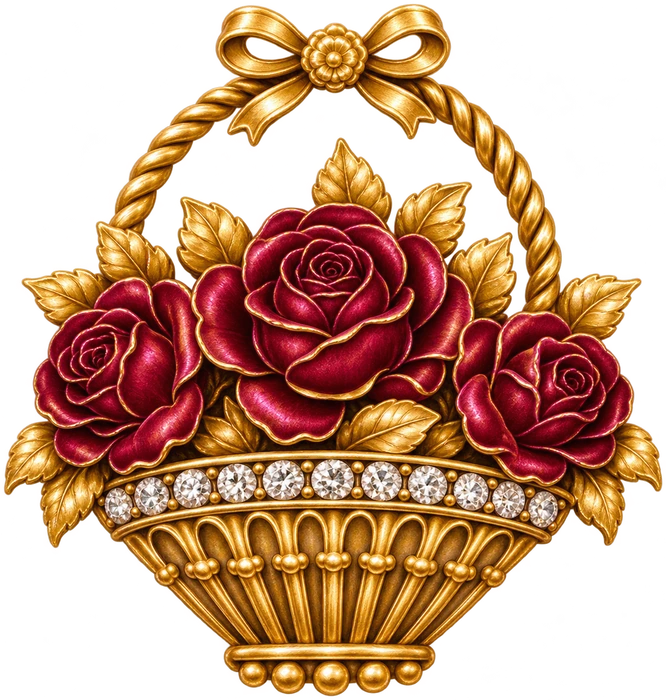
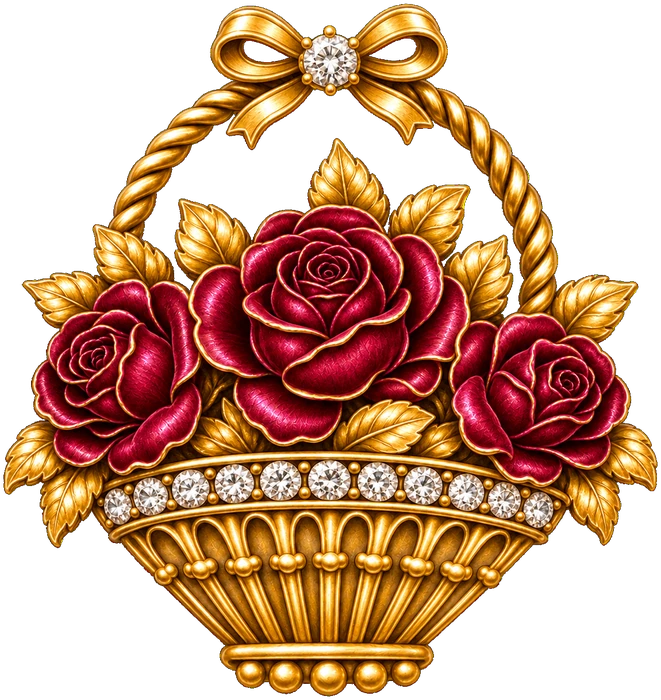
Neues Rosenkörbchen mit Diamant in der Schleife (2.20.4)

diff --git a/index.html b/index.html
@@ -2791,7 +2791,7 @@ html.theme-biz.theme-cca.theme-cca-light :is(.tb-tools-fab, .tb-del-fab) img, ht
 
 <script>
 /* Bump on every published update, so it's visible at a glance whether the newest version is loaded. */
-const APP_VERSION = '2.20.3';
+const APP_VERSION = '2.20.4';
 /* Design (since 1.80.0, see the small script in <head>): in "Business" (BIZ) the gold paper icons are swapped for plain line
    icons (img/icons-rl/*.svg) wherever they appear – also in everything drawn later – so the rest of the code stays as it is. */
 // A Lady's Conservatory (1.84.0, named so since 1.86.1; key 'retreat' and RETREAT stay): light, cream and forest green; until its own pictures come it uses those of A Gentleman's Study (with the
@@ -9046,7 +9046,7 @@ const RL_EGGS = [['egg-cream', 0.57, 0.75], ['egg-cobalt', 0.58, 0.9], ['egg-gre
 // boot, star, crib, Easter eggs) keeps the picture of A Gentleman's Study as placeholder
 const RT_TRO = {
   // new colours (preview 21.10.2026, img/rt2/): brooches and rose quartz in the colours of the colour card
-  ex:[['rt2/brooch-q1', 0.543], ['rt2/brooch-q2', 0.731], ['rt2/brooch-q3', 0.951], ['rt2/brooch-q4', 0.923], ['rt2/brooch-q5', 0.936], ['rt2/brooch-q6', 0.687]] /* 17.11.2026: all six new as transparent PNGs from ChatGPT (1–5 real alpha; 6 cut from green) */, // 24.10.2026: new antique brooches (spray, violets, basket, star flower, wreath, Victorian diamond)
+  ex:[['rt2/brooch-q1', 0.543], ['rt2/brooch-q2', 0.731], ['rt2/brooch-q3', 0.944], ['rt2/brooch-q4', 0.923], ['rt2/brooch-q5', 0.936], ['rt2/brooch-q6', 0.687]] /* 17.11.2026: all six new as transparent PNGs from ChatGPT (1, 2, 4, 5 real alpha; 3 cut from black, 6 from green) */, // 24.10.2026: new antique brooches (spray, violets, basket, star flower, wreath, Victorian diamond)
   streak:[['rt2/quartz-1', 0.537], ['rt2/quartz-2', 0.524], ['rt2/quartz-3', 0.505], ['rt2/quartz-4', 0.496], ['rt2/quartz-5', 0.442], ['rt2/quartz-6', 0.464]],
   box:[['rt2/cloche-lotus-1', 0.84], ['rt2/cloche-lotus-2', 0.841], ['rt2/cloche-lotus-3', 0.841]],
   b478:[['rt2/cloche-cherry-1', 0.84], ['rt2/cloche-cherry-2', 0.84], ['rt2/cloche-cherry-3', 0.84]], lemon:[['rt2/cloche-lemon-1', 0.846], ['rt2/cloche-lemon-2', 0.846], ['rt2/cloche-lemon-3', 0.846]], // new colours (21.10.2026)

diff --git a/CLAUDE.md b/CLAUDE.md
@@ -11,7 +11,7 @@ Der Nutzer ist kein Entwickler. Erkläre Schritte einfach und auf Deutsch.
 eWolfe ist **kein Ein-Personen-Projekt**: Die Nutzerin hatte beim Bau große Hilfe (Betreiber: eWolfe GbR). Nie als Werk einer einzelnen
 Person beschreiben (auch nicht im Ältestenrat, in Analysen oder Präsentationen); wer zum Team gehört, nicht raten.
 
-## Übergabe – Stand 16.11.2026 (Version 2.20.2, committet, Push steht aus) – zuerst lesen
+## Übergabe – Stand 17.11.2026 (Version 2.20.4 auf `main`, Push steht aus; Coach-„Gespräch“ auf Branch `coach-gespraech`) – zuerst lesen
 - **Zuletzt (2.20.0):** Lebensfreude als Regler mit der Sonne als Knopf (siehe Versionseintrag).
 - **Davor (2.19.0):** Persönlichkeitstest mit sechs Antworten ohne Mitte; alte Ergebnisse/Entwürfe mit fünf bleiben gültig (`steps`). Handoff-Nachtrag vom 16.11.2026.
 - **Sitzung 14.–16.11.2026 (2.11.1 → 2.18.1), Kurzfassung – Einzelheiten in den Versionseinträgen unten:** Persönlichkeitsrad rund mit Ring;
@@ -212,7 +212,7 @@ Person beschreiben (auch nicht im Ältestenrat, in Analysen oder Präsentationen
 - Veröffentlicht über **GitHub Pages** aus diesem Repository (Branch `main`, Ordner `/`):
   https://k9vk58y99f-max.github.io/k9vk58y99f-max.github.io-ewolfe-app-/
 - Ein Commit + Push auf `main` ist die Veröffentlichung; nach 1–2 Minuten ist es live.
-- Bei jeder Änderung `APP_VERSION` erhöhen (aktuell `2.20.2`) und `APP_BUILD` anpassen.
+- Bei jeder Änderung `APP_VERSION` erhöhen (aktuell `2.20.4`) und `APP_BUILD` anpassen.
   Die Version steht unten in der App.
 
 ## Neu seit 1.55.0 (iPad, Wischen, Tagebuch, Sticker, Impulskarten)
@@ -1264,7 +1264,7 @@ Vor jedem Push: Syntax prüfen und die betroffenen Abläufe testen. Daten des Nu
     **Lady 1,77 m statt 1,72 m:** `--dh` 0,767 statt 0,745 × Regalhöhe. Test `t2202-hunde.py` in `eWolfe-Skripte` (WebKit, drei Designs, Stufe 5/6, Mo/Sa).
 - **2.20.3 (17.11.2026) Teilen-Bild und alle Lady-Broschen neu:** Trophäe teilen (`trophyShareBlob`): Bild und Text als ein Block mittig zwischen Rahmen
     oben und Datum (längster Text: 2 Zeilen Titel, 3 Zeilen Beschreibung). **Alle sechs Lady-Broschen neu** (`rt2/brooch-q1…q6`, Bilder der Nutzerin von ChatGPT,
-    je Brosche ein Bild 1254 px; 1–5 echtes durchsichtiges PNG, 6 vor Grün, freigestellt mit `keyprep.py` in `eWolfe-Skripte`, 700 px, Veilchen nur in Lila =
+    je Brosche ein Bild 1254 px; 1, 2, 4, 5 echtes durchsichtiges PNG, 6 vor Grün; 3 (Rosenkörbchen mit Diamant in der Schleife, 2.20.4) vor Schwarz, freigestellt mit `keyblack.py`, freigestellt mit `keyprep.py` in `eWolfe-Skripte`, 700 px, Veilchen nur in Lila =
     Wahl der Nutzerin). Die alten `brooch-n*` bleiben für Tagebuchseiten. **Regel für neue Bilder:** zuerst ein echtes PNG mit Durchsichtigkeit bestellen, sonst
     einen kräftigen Farbgrund (Grün/Cyan/Magenta), nie Grau bei Silber, Glas, Perlen. Prompts: `Ausgang/Ausgang 16.11.2026/Broschen … – Prompts mit durchsichtigem Hintergrund.md`.
 - **Noch offen (Datenschutz):** Speicher-Erinnerung (80 %/90 %), verschlüsseltes Backup + monatliche Erinnerung, Fotos einzeln
